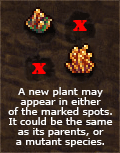
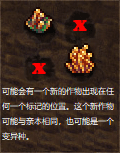
汉化农场

Changed region(s): [[0.0, 0.549, 0.95, 0.9935]]

diff --git a/minigameGarden.js b/minigameGarden.js
@@ -21,7 +21,7 @@ M.launch=function()
 		*/
 		M.plants={
 			'bakerWheat':{
-				name:'Baker\'s wheat',
+				name:'面包师的小麦',
 				icon:0,
 				cost:1,
 				costM:30,
@@ -29,15 +29,15 @@ M.launch=function()
 				ageTickR:2,
 				mature:35,
 				children:['bakerWheat','thumbcorn','cronerice','bakeberry','clover','goldenClover','chocoroot','tidygrass'],
-				effsStr:'<div class="green">&bull; +1% CpS</div>',
-				q:'A plentiful crop whose hardy grain is used to make flour for pastries.',
+				effsStr:'<div class="green">&bull; +1% 饼干产量</div>',
+				q:'一种多产的作物，其坚韧的谷物用来做糕点用的面粉。',
 				onHarvest:function(x,y,age)
 				{
 					if (age>=this.mature) M.dropUpgrade('Wheat slims',0.001);
 				},
 			},
 			'thumbcorn':{
-				name:'Thumbcorn',
+				name:'手指玉米',
 				icon:1,
 				cost:5,
 				costM:100,
@@ -45,11 +45,11 @@ M.launch=function()
 				ageTickR:2,
 				mature:20,
 				children:['bakerWheat','thumbcorn','cronerice','gildmillet','glovemorel'],
-				effsStr:'<div class="green">&bull; +2% cookies per click</div>',
-				q:'A strangely-shaped variant of corn. The amount of strands that can sprout from one seed is usually in the single digits.',
+				effsStr:'<div class="green">&bull; +2% 每次点击的饼干</div>',
+				q:'一种形状奇特的变种玉米。从一颗种子中长出的的果实数量通常只有个位数。',
 			},
 			'cronerice':{
-				name:'Cronerice',
+				name:'老妪稻谷',
 				icon:2,
 				cost:15,
 				costM:250,
@@ -57,11 +57,11 @@ M.launch=function()
 				ageTickR:0.7,
 				mature:55,
 				children:['thumbcorn','gildmillet','elderwort','wardlichen'],
-				effsStr:'<div class="green">&bull; +3% grandma CpS</div>',
-				q:'Not only does this wrinkly bulb look nothing like rice, it\'s not even related to it either; its closest extant relative is the weeping willow.',
+				effsStr:'<div class="green">&bull; +3% 老奶奶饼干产量</div>',
+				q:'这作物带皱纹的茎不仅不像稻谷，甚至和它一点关系都没有；它看起来就像垂柳。',
 			},
 			'gildmillet':{
-				name:'Gildmillet',
+				name:'黄金小米',
 				icon:3,
 				cost:15,
 				costM:1500,
@@ -69,8 +69,8 @@ M.launch=function()
 				ageTickR:1.5,
 				mature:40,
 				children:['clover','goldenClover','shimmerlily'],
-				effsStr:'<div class="green">&bull; +1% golden cookie gains</div><div class="green">&bull; +0.1% golden cookie effect duration</div>',
-				q:'An ancient staple crop, famed for its golden sheen. Was once used to bake birthday cakes for kings and queens of old.',
+				effsStr:'<div class="green">&bull; +1% 黄金饼干获得</div><div class="green">&bull; +0.1% 黄金饼干效果持续时间</div>',
+				q:'一种古代的主要作物，以其金色的光泽而闻名。曾被用来为古代的国王和王后烤生日蛋糕。',
 			},
 			'clover':{
 				name:'Ordinary clover',
@@ -873,34 +873,34 @@ M.launch=function()
 		
 		M.soils={
 			'dirt':{
-				name:'Dirt',
+				name:'泥土',
 				icon:0,
 				tick:5,
 				effMult:1,
 				weedMult:1,
 				req:0,
-				effsStr:'<div class="gray">&bull; tick every <b>5 minutes</b></div>',
-				q:'Simple, regular old dirt that you\'d find in nature.',
+				effsStr:'<div class="gray">&bull; 一个周期有 <b>5 分钟</b></div>',
+				q:'简单而平常的泥土，你可以在自然环境中随便挖到。',
 			},
 			'fertilizer':{
-				name:'Fertilizer',
+				name:'肥料',
 				icon:1,
 				tick:3,
 				effMult:0.75,
 				weedMult:1.2,
 				req:50,
-				effsStr:'<div class="gray">&bull; tick every <b>3 minutes</b></div><div class="red">&bull; passive plant effects <b>-25%</b></div><div class="red">&bull; weeds appear <b>20%</b> more</div>',
-				q:'Soil with a healthy helping of fresh manure. Plants grow faster but are less efficient.',
+				effsStr:'<div class="gray">&bull; 一个周期有 <b>3 分钟</b></div><div class="red">&bull; 作物效果 <b>-25%</b></div><div class="red">&bull; 杂草出现概率增加 <b>20%</b></div>',
+				q:'有新鲜肥料的有益健康的土壤。植物长得快但效果低。',
 			},
 			'clay':{
-				name:'Clay',
+				name:'黏土',
 				icon:2,
 				tick:15,
 				effMult:1.25,
 				weedMult:1,
 				req:100,
-				effsStr:'<div class="gray">&bull; tick every <b>15 minutes</b></div><div class="green">&bull; passive plant effects <b>+25%</b></div>',
-				q:'Rich soil with very good water retention. Plants grow slower but are more efficient.',
+				effsStr:'<div class="gray">&bull; 一个周期有 <b>15 分钟</b></div><div class="green">&bull; 作物效果 <b>+25%</b></div>',
+				q:'土壤肥沃，保水性能好。植物生长缓慢但效果更高。',
 			},
 			'pebbles':{
 				name:'Pebbles',
@@ -909,7 +909,7 @@ M.launch=function()
 				effMult:0.25,
 				weedMult:0.1,
 				req:200,
-				effsStr:'<div class="gray">&bull; tick every <b>5 minutes</b></div><div class="red">&bull; passive plant effects <b>-75%</b></div><div class="green">&bull; <b>35% chance</b> of collecting seeds automatically when plants expire</div><div class="green">&bull; weeds appear <b>10 times</b> less</div>',
+				effsStr:'<div class="gray">&bull; 一个周期有 <b>5 分钟</b></div><div class="red">&bull; 作物效果 <b>-75%</b></div><div class="green">&bull; 作物死亡时有<b>35% 概率</b>自动收获种子</div><div class="green">&bull; 杂草出现概率减少 <b>10 倍</b></div>',
 				q:'Dry soil made of small rocks tightly packed together. Not very conductive to plant health, but whatever falls off your crops will be easy to retrieve.<br>Useful if you\'re one of those farmers who just want to find new seeds without having to tend their garden too much.',
 			},
 			'woodchips':{
@@ -919,7 +919,7 @@ M.launch=function()
 				effMult:0.25,
 				weedMult:0.1,
 				req:300,
-				effsStr:'<div class="gray">&bull; tick every <b>5 minutes</b></div><div class="red">&bull; passive plant effects <b>-75%</b></div><div class="green">&bull; plants spread and mutate <b>3 times more</b></div><div class="green">&bull; weeds appear <b>10 times</b> less</div>',
+				effsStr:'<div class="gray">&bull; 一个周期有 <b>5 分钟</b></div><div class="red">&bull; 作物效果 <b>-75%</b></div><div class="green">&bull; 植物发育与变异变为 <b>3 倍以上</b></div><div class="green">&bull; 杂草出现概率减少 <b>10 倍</b></div>',
 				q:'Soil made of bits and pieces of bark and sawdust. Helpful for young sprouts to develop, not so much for mature plants.',
 			},
 		};
@@ -928,18 +928,18 @@ M.launch=function()
 		
 		M.tools={
 			'info':{
-				name:'Garden information',
+				name:'花园信息',
 				icon:3,
 				desc:'-',
 				descFunc:function()
 				{
 					var str='';
-					if (M.freeze) str='Your garden is frozen, providing no effects.';
+					if (M.freeze) str='你的花园冻住了，不会产生任何效果。';
 					else
 					{
 						var effs={
-							cps:{n:'CpS'},
-							click:{n:'cookies/click'},
+							cps:{n:'饼干产量'},
+							click:{n:'饼干/点击'},
 							cursorCps:{n:'cursor CpS'},
 							grandmaCps:{n:'grandma CpS'},
 							goldenCookieGain:{n:'golden cookie gains'},
@@ -971,18 +971,18 @@ M.launch=function()
 							}
 						}
 						if (effStr=='') effStr='<div style="font-size:10px;margin-left:64px;"><b>None.</b></div>';
-						str+='<div>Combined effects of all your plants :</div>'+effStr;
+						str+='<div>所有作物产生的总效果:</div>'+effStr;
 					}
 					str+='<div class="line"></div>';
-					str+='<img src="img/gardenTip.png" style="float:right;margin:0px 0px 8px 8px;"/><small style="line-height:100%;">&bull; You can cross-breed plants by planting them close to each other; new plants will grow in the empty tiles next to them.<br>&bull; Unlock new seeds by harvesting mature plants.<br>&bull; When you ascend, your garden plants are reset, but you keep all the seeds you\'ve unlocked.<br>&bull; Your garden has no effect and does not grow while the game is closed.</small>';
+					str+='<img src="img/gardenTip.png" style="float:right;margin:0px 0px 8px 8px;"/><small style="line-height:100%;">&bull; 你可以通过把种子种在一起来使它们杂交；新的作物会在相邻的空土地上生长。<br>&bull; 通过收获成熟作物来解锁新种子。<br>&bull; 你转生后，你的花园作物会重置，但是你将保留所有已解锁的种子。<br>&bull; 游戏关闭后，花园没有效果，作物也不会生长。</small>';
 					return str;
 				},
 				func:function(){},
 			},
 			'harvestAll':{
-				name:'Harvest all',
+				name:'收获所有',
 				icon:0,
-				descFunc:function(){return 'Instantly harvest all plants in your garden.<div class="line"></div>'+((Game.keys[16] && Game.keys[17])?'<b>You are holding shift+ctrl.</b> Only mature, mortal plants will be harvested.':'Shift+ctrl+click to harvest only mature, mortal plants.');},
+				descFunc:function(){return '马上收获花园里的所有作物。<div class="line"></div>'+((Game.keys[16] && Game.keys[17])?'<b>你正在按着 shift+ctrl.</b> 只会收获成熟的、死亡的作物。':'Shift+ctrl+单击来只收获成熟的、死亡的作物。');},
 				func:function(){
 					PlaySound('snd/toneTick.mp3');
 					/*if (M.freeze){return false;}*/
@@ -991,11 +991,11 @@ M.launch=function()
 				},
 			},
 			'freeze':{
-				name:'Freeze',
+				name:'冰冻',
 				icon:1,
 				descFunc:function()
 				{
-					return 'Cryogenically preserve your garden.<br>Plants no longer grow, spread or die; they provide no benefits.<br>Soil cannot be changed.<div class="line"></div>Using this will effectively pause your garden.<div class="line"></div>';//<span class="red">'+((M.nextFreeze>Date.now())?'You will be able to freeze your garden again in '+Game.sayTime((M.nextFreeze-Date.now())/1000*30+30,-1)+'.':'After unfreezing your garden, you must wait 10 minutes to freeze it again.')+'</span>
+					return '低温保护你的花园。<br>作物将不再生长，发育及死亡；它们也将不会提供加成。<br>土壤无法改变。<div class="line"></div>使用这功能将有效地暂停你的花园。<div class="line"></div>';//<span class="red">'+((M.nextFreeze>Date.now())?'You will be able to freeze your garden again in '+Game.sayTime((M.nextFreeze-Date.now())/1000*30+30,-1)+'.':'After unfreezing your garden, you must wait 10 minutes to freeze it again.')+'</span>
 				},
 				func:function(){
 					//if (!M.freeze && M.nextFreeze>Date.now()) return false;
@@ -1116,14 +1116,14 @@ M.launch=function()
 			}
 			
 			return '<div class="description">'+
-						(!me.immortal?('<div style="margin:6px 0px;font-size:11px;"><b>Average lifespan :</b> '+Game.sayTime(((100/(me.ageTick+me.ageTickR/2))*M.stepT)*30,-1)+' <small>('+Beautify(Math.ceil((100/((me.ageTick+me.ageTickR/2)))*(1)))+' ticks)</small></div>'):'')+
-						'<div style="margin:6px 0px;font-size:11px;"><b>Average maturation :</b> '+Game.sayTime(((100/((me.ageTick+me.ageTickR/2)))*(me.mature/100)*M.stepT)*30,-1)+' <small>('+Beautify(Math.ceil((100/((me.ageTick+me.ageTickR/2)))*(me.mature/100)))+' ticks)</small></div>'+
+						(!me.immortal?('<div style="margin:6px 0px;font-size:11px;"><b>平均寿命 :</b> '+Game.sayTime(((100/(me.ageTick+me.ageTickR/2))*M.stepT)*30,-1)+' <small>('+Beautify(Math.ceil((100/((me.ageTick+me.ageTickR/2)))*(1)))+' 周期)</small></div>'):'')+
+						'<div style="margin:6px 0px;font-size:11px;"><b>平均成熟时间 :</b> '+Game.sayTime(((100/((me.ageTick+me.ageTickR/2)))*(me.mature/100)*M.stepT)*30,-1)+' <small>('+Beautify(Math.ceil((100/((me.ageTick+me.ageTickR/2)))*(me.mature/100)))+' 周期)</small></div>'+
 						(me.weed?'<div style="margin:6px 0px;font-size:11px;"><b>Is a weed</b></div>':'')+
 						(me.fungus?'<div style="margin:6px 0px;font-size:11px;"><b>Is a fungus</b></div>':'')+
 						(me.detailsStr?('<div style="margin:6px 0px;font-size:11px;"><b>Details :</b> '+me.detailsStr+'</div>'):'')+
-						(children!=''?('<div style="margin:6px 0px;font-size:11px;"><b>Possible mutations :</b> '+children+'</div>'):'')+
+						(children!=''?('<div style="margin:6px 0px;font-size:11px;"><b>可能的变异 :</b> '+children+'</div>'):'')+
 						'<div class="line"></div>'+
-						'<div style="margin:6px 0px;"><b>Effects :</b></div>'+
+						'<div style="margin:6px 0px;"><b>效果 :</b></div>'+
 						'<div style="font-size:11px;font-weight:bold;">'+me.effsStr+'</div>'+
 						(me.q?('<q>'+me.q+'</q>'):'')+
 					'</div>';
@@ -1149,12 +1149,12 @@ M.launch=function()
 				var me=M.soilsById[id];
 				var str='<div style="padding:8px 4px;min-width:350px;">'+
 					(M.parent.amount<me.req?(
-						'<div style="text-align:center;">Soil unlocked at '+me.req+' farms.</div>'
+						'<div style="text-align:center;">这种土壤需要'+me.req+'个农场解锁。</div>'
 					):('<div class="icon" style="background:url(img/gardenPlants.png?v='+Game.version+');float:left;margin-left:-8px;margin-top:-8px;background-position:'+(-me.icon*48)+'px '+(-34*48)+'px;"></div>'+
-					'<div><div class="name">'+me.name+'</div><div><small>'+((M.soil==me.id)?'Your field is currently using this soil.':(M.nextSoil>Date.now())?'You will be able to change your soil again in '+Game.sayTime((M.nextSoil-Date.now())/1000*30+30,-1)+'.':'Click to use this type of soil for your whole field.')+'</small></div></div>'+
+					'<div><div class="name">'+me.name+'</div><div><small>'+((M.soil==me.id)?'你的种植区正在使用这种土壤。':(M.nextSoil>Date.now())?'你将在'+Game.sayTime((M.nextSoil-Date.now())/1000*30+30,-1)+'后才能再次改变土壤.':'单击此处来为你的整片种植区使用这种土壤。')+'</small></div></div>'+
 					'<div class="line"></div>'+
 					'<div class="description">'+
-						'<div style="margin:6px 0px;"><b>Effects :</b></div>'+
+						'<div style="margin:6px 0px;"><b>效果 :</b></div>'+
 						'<div style="font-size:11px;font-weight:bold;">'+me.effsStr+'</div>'+
 						(me.q?('<q>'+me.q+'</q>'):'')+
 					'</div>'))+
@@ -1170,8 +1170,8 @@ M.launch=function()
 					'<div class="icon" style="background:url(img/gardenPlants.png?v='+Game.version+');float:left;margin-left:-24px;margin-top:-4px;background-position:'+(-0*48)+'px '+(-me.icon*48)+'px;"></div>'+
 					'<div class="icon" style="background:url(img/gardenPlants.png?v='+Game.version+');float:left;margin-left:-24px;margin-top:-28px;background-position:'+(-4*48)+'px '+(-me.icon*48)+'px;"></div>'+
 					'<div style="background:url(img/turnInto.png);width:20px;height:22px;position:absolute;left:28px;top:24px;z-index:1000;"></div>'+
-					(me.plantable?('<div style="float:right;text-align:right;width:100px;"><small>Planting cost :</small><br><span class="price'+(M.canPlant(me)?'':' disabled')+'">'+Beautify(Math.round(shortenNumber(M.getCost(me))))+'</span><br><small>'+Game.sayTime(me.cost*60*30,-1)+' of CpS,<br>minimum '+Beautify(me.costM)+' cookies</small></div>'):'')+
-					'<div style="width:300px;"><div class="name">'+me.name+' seed</div><div><small>'+(me.plantable?'Click to select this seed for planting.':'<span class="red">This seed cannot be planted.</span>')+'<br>Shift+ctrl+click to harvest all mature plants of this type.</small></div></div>'+
+					(me.plantable?('<div style="float:right;text-align:right;width:100px;"><small>种植成本 :</small><br><span class="price'+(M.canPlant(me)?'':' disabled')+'">'+Beautify(Math.round(shortenNumber(M.getCost(me))))+'</span><br><small>'+Game.sayTime(me.cost*60*30,-1)+'的饼干生产量,<br>最少 '+Beautify(me.costM)+' 饼干</small></div>'):'')+
+					'<div style="width:300px;"><div class="name">'+me.name+'种子</div><div><small>'+(me.plantable?'单击此处来选择这颗种子去种植。':'<span class="red">无法种植这棵种子。</span>')+'<br>Shift+ctrl+单击来收获所有这类型的成熟作物。</small></div></div>'+
 					'<div class="line"></div>'+
 					M.getPlantDesc(me)+
 				'</div>';
@@ -1202,9 +1202,9 @@ M.launch=function()
 				{
 					var me=(M.seedSelected>=0)?M.plantsById[M.seedSelected]:0;
 					var str='<div style="padding:8px 4px;min-width:350px;text-align:center;">'+
-						'<div class="name">Empty tile</div>'+'<div class="line"></div><div class="description">'+
-							'This tile of soil is empty.<br>Pick a seed and plant something!'+
-							(me?'<div class="line"></div>Click to plant <b>'+me.name+'</b> for <span class="price'+(M.canPlant(me)?'':' disabled')+'">'+Beautify(Math.round(M.getCost(me)))+'</span>.<br><small>(Shift-click to plant multiple.)</small>':'')+
+						'<div class="name">一片空土地</div>'+'<div class="line"></div><div class="description">'+
+							'这片土地是空的。<br>拿一颗种子，在这里种点什么！'+
+							(me?'<div class="line"></div>点击这里种植<b>'+me.name+'</b> 并花费 <span class="price'+(M.canPlant(me)?'':' disabled')+'">'+Beautify(Math.round(M.getCost(me)))+'</span>.<br><small>(Shift-click to plant multiple.)</small>':'')+
 							(M.plotBoost[y][x]!=[1,1,1]?('<small>'+
 								(M.plotBoost[y][x][0]!=1?'<br>Aging multiplier : '+Beautify(M.plotBoost[y][x][0]*100)+'%':'')+
 								(M.plotBoost[y][x][1]!=1?'<br>Effect multiplier : '+Beautify(M.plotBoost[y][x][1]*100)+'%':'')+
@@ -1226,7 +1226,7 @@ M.launch=function()
 					var icon=[stage,me.icon];
 					var str='<div style="padding:8px 4px;min-width:350px;">'+
 						'<div class="icon" style="background:url(img/gardenPlants.png?v='+Game.version+');float:left;margin-left:-8px;margin-top:-8px;background-position:'+(-icon[0]*48)+'px '+(-icon[1]*48)+'px;"></div>'+
-						'<div class="name">'+me.name+'</div><div><small>This plant is growing here.</small></div>'+
+						'<div class="name">'+me.name+'</div><div><small>这个作物在这里生长</small></div>'+
 						'<div class="line"></div>'+
 						'<div style="text-align:center;">'+
 							'<div style="display:inline-block;position:relative;box-shadow:0px 0px 0px 1px #000,0px 0px 0px 1px rgba(255,255,255,0.5) inset,0px -2px 2px 0px rgba(255,255,255,0.5) inset;width:256px;height:6px;background:linear-gradient(to right,#fff 0%,#0f9 '+me.mature+'%,#3c0 '+(me.mature+0.1)+'%,#960 100%)">'+
@@ -1236,16 +1236,16 @@ M.launch=function()
 								'<div style="background:url(img/gardenPlants.png?v='+Game.version+');background-position:'+(-3*48)+'px '+(-icon[1]*48)+'px;position:absolute;left:'+((((me.mature*0.666)/100)*256)-24)+'px;top:-32px;transform:scale(0.5,0.5);width:48px;height:48px;"></div>'+
 								'<div style="background:url(img/gardenPlants.png?v='+Game.version+');background-position:'+(-4*48)+'px '+(-icon[1]*48)+'px;position:absolute;left:'+((((me.mature)/100)*256)-24)+'px;top:-32px;transform:scale(0.5,0.5);width:48px;height:48px;"></div>'+
 							'</div><br>'+
-							'<b>Stage :</b> '+['bud','sprout','bloom','mature'][stage-1]+'<br>'+
-							'<small>'+(stage==1?'Plant effects : 10%':stage==2?'Plant effects : 25%':stage==3?'Plant effects : 50%':'Plant effects : 100%; may reproduce, will drop seed when harvested')+'</small>'+
+							'<b>阶段 :</b> '+['发芽','长芽','开花','成熟'][stage-1]+'<br>'+
+							'<small>'+(stage==1?'作物效果 : 10%':stage==2?'作物效果 : 25%':stage==3?'作物效果 : 50%':'作物效果 : 100%; 可能会繁殖，在收获时留下种子')+'</small>'+
 							'<br><small>'+(
 								stage<4?(
-									'Mature in about '+Game.sayTime(((100/(M.plotBoost[y][x][0]*(me.ageTick+me.ageTickR/2)))*((me.mature-tile[1])/100)*M.stepT)*30,-1)+' ('+Beautify(Math.ceil((100/(M.plotBoost[y][x][0]*(me.ageTick+me.ageTickR/2)))*((me.mature-tile[1])/100)))+' tick'+(Math.ceil((100/(M.plotBoost[y][x][0]*(me.ageTick+me.ageTickR/2)))*((me.mature-tile[1])/100))==1?'':'s')+')'
+									'大约在'+Game.sayTime(((100/(M.plotBoost[y][x][0]*(me.ageTick+me.ageTickR/2)))*((me.mature-tile[1])/100)*M.stepT)*30,-1)+' ('+Beautify(Math.ceil((100/(M.plotBoost[y][x][0]*(me.ageTick+me.ageTickR/2)))*((me.mature-tile[1])/100)))+' 周期'+(Math.ceil((100/(M.plotBoost[y][x][0]*(me.ageTick+me.ageTickR/2)))*((me.mature-tile[1])/100))==1?'':'')+')后成熟'
 								):(
 									!me.immortal?(
-										'Decays in about '+Game.sayTime(((100/(M.plotBoost[y][x][0]*(me.ageTick+me.ageTickR/2)))*((100-tile[1])/100)*M.stepT)*30,-1)+' ('+Beautify(Math.ceil((100/(M.plotBoost[y][x][0]*(me.ageTick+me.ageTickR/2)))*((100-tile[1])/100)))+' tick'+(Math.ceil((100/(M.plotBoost[y][x][0]*(me.ageTick+me.ageTickR/2)))*((100-tile[1])/100))==1?'':'s')+')'
+										'大约在'+Game.sayTime(((100/(M.plotBoost[y][x][0]*(me.ageTick+me.ageTickR/2)))*((100-tile[1])/100)*M.stepT)*30,-1)+' ('+Beautify(Math.ceil((100/(M.plotBoost[y][x][0]*(me.ageTick+me.ageTickR/2)))*((100-tile[1])/100)))+' 周期'+(Math.ceil((100/(M.plotBoost[y][x][0]*(me.ageTick+me.ageTickR/2)))*((100-tile[1])/100))==1?'':'')+')后腐烂'
 									):
-										'Does not decay'
+										'不会腐烂'
 								)
 							)+'</small>'+
 							//'<small><br>'+M.plotBoost[y][x]+'</small>'+
@@ -1258,7 +1258,7 @@ M.launch=function()
 						'</div>'+
 						'<div class="line"></div>'+
 						//'<div style="text-align:center;">Click to harvest'+(M.seedSelected>=0?', planting <b>'+M.plantsById[M.seedSelected].name+'</b><br>for <span class="price'+(M.canPlant(me)?'':' disabled')+'">'+Beautify(Math.round(M.getCost(M.plantsById[M.seedSelected])))+'</span> in its place':'')+'.</div>'+
-						'<div style="text-align:center;">Click to '+(stage==4?'harvest':'unearth')+'.</div>'+
+						'<div style="text-align:center;">单击来'+(stage==4?'收获':'挖出')+'.</div>'+
 						'<div class="line"></div>'+
 						M.getPlantDesc(me)+
 					'</div>';
@@ -1633,7 +1633,7 @@ M.launch=function()
 		str+='<div id="gardenDrag"><div id="gardenCursor" class="shadowFilter"></div></div>';
 			
 			str+='<div id="gardenPanel" class="framed">';
-				str+='<div class="title gardenPanelLabel">Tools</div><div class="line"></div>';
+				str+='<div class="title gardenPanelLabel">工具</div><div class="line"></div>';
 				str+='<div id="gardenTools"></div>';
 				str+='<div id="gardenSeedsUnlocked" class="title gardenPanelLabel">Seeds</div><div class="line"></div>';
 				str+='<div id="gardenSeeds"></div>';
@@ -1997,12 +1997,12 @@ M.launch=function()
 		if (Game.drawT%10==0)
 		{
 			M.lumpRefill.style.display='block';
-			if (M.freeze) l('gardenNextTick').innerHTML='Garden is frozen. Unfreeze to resume.';
-			else l('gardenNextTick').innerHTML='Next tick in '+Game.sayTime((M.nextStep-Date.now())/1000*30+30,-1)+'';
-			l('gardenStats').innerHTML='Mature plants harvested : '+Beautify(M.harvests)+' (total : '+Beautify(M.harvestsTotal)+')';
-			if (M.parent.level<M.plotLimits.length) l('gardenPlotSize').innerHTML='<small>Plot size : '+Math.max(1,Math.min(M.plotLimits.length,M.parent.level))+'/'+M.plotLimits.length+'<br>(Upgrades with farm level)</small>';
+			if (M.freeze) l('gardenNextTick').innerHTML='花园冻住了。解冻来恢复。';
+			else l('gardenNextTick').innerHTML='下一周期在'+Game.sayTime((M.nextStep-Date.now())/1000*30+30,-1)+'后';
+			l('gardenStats').innerHTML='已收获成熟作物: '+Beautify(M.harvests)+' (总共 : '+Beautify(M.harvestsTotal)+')';
+			if (M.parent.level<M.plotLimits.length) l('gardenPlotSize').innerHTML='<small>种植区尺寸 : '+Math.max(1,Math.min(M.plotLimits.length,M.parent.level))+'/'+M.plotLimits.length+'<br>(随农场等级升级<糖块升级>)</small>';
 			else l('gardenPlotSize').innerHTML='';
-			l('gardenSeedsUnlocked').innerHTML='Seeds<small> ('+M.plantsUnlockedN+'/'+M.plantsN+')</small>';
+			l('gardenSeedsUnlocked').innerHTML='种子<small> ('+M.plantsUnlockedN+'/'+M.plantsN+')</small>';
 			for (var i in M.soils)
 			{
 				var me=M.soils[i];

diff --git a/main-v=2.0114.js b/main-v=2.0114.js
@@ -6387,8 +6387,8 @@ Game.Launch=function()
 				if (Game.isMinigameReady(me) && Game.ascensionMode!=1)
 				{
 					l('productMinigameButton'+me.id).style.display='block';
-					if (!me.onMinigame) l('productMinigameButton'+me.id).innerHTML='View '+me.minigameName;
-					else l('productMinigameButton'+me.id).innerHTML='Close '+me.minigameName;
+					if (!me.onMinigame) l('productMinigameButton'+me.id).innerHTML='打开'+me.minigameName;
+					else l('productMinigameButton'+me.id).innerHTML='关闭'+me.minigameName;
 				}
 				else l('productMinigameButton'+me.id).style.display='none';
 			}
@@ -6847,7 +6847,7 @@ Game.Launch=function()
 			if (this.amount>=Game.SpecialGrandmaUnlock && Game.Objects['Grandma'].amount>0) Game.Unlock('农民老奶奶');
 		});
 		Game.last.minigameUrl='minigameGarden.js';
-		Game.last.minigameName='Garden';
+		Game.last.minigameName='花园';
 		
 		new Game.Object('Mine','矿山|矿山|开采|[X] 米深|[X] 米深','矿山生产饼干面团和巧克力片。',4,3,{base:'mine',xV:16,yV:16,w:64,rows:2,x:0,y:24},10000,function(me){
 			var mult=1;
@@ -6893,7 +6893,7 @@ Game.Launch=function()
 			if (this.amount>=Game.SpecialGrandmaUnlock && Game.Objects['Grandma'].amount>0) Game.Unlock('祭司老奶奶');
 		});
 		Game.last.minigameUrl='minigamePantheon.js';
-		Game.last.minigameName='Pantheon';
+		Game.last.minigameName='万神殿';
 		
 		new Game.Object('Wizard tower','精灵塔|精灵塔|召唤|咒语拥有 [X] 更多的音节|咒语拥有 [X] 更多的音节','用魔法咒语召唤饼干。',8,17,{base:'wizardtower',xV:16,yV:16,w:48,rows:2,x:0,y:20},0,function(me){
 			var mult=1;
@@ -8893,7 +8893,7 @@ Game.Launch=function()
 		{
 			var threshold=Math.pow(10,Math.floor(Game.BankAchievements.length*1.5+2));
 			if (Game.BankAchievements.length==0) threshold=1;
-			var achiev=new Game.Achievement(name,'烘烤 <b>'+Beautify(threshold)+'</b> 饼干'+(threshold==1?'':'s')+' 在一次转生中。',[Game.thresholdIcons[Game.BankAchievements.length],(Game.BankAchievements.length>23?2:5)]);
+			var achiev=new Game.Achievement(name,'烘烤 <b>'+Beautify(threshold)+'</b> 饼干'+(threshold==1?'':'')+' 在一次转生中。',[Game.thresholdIcons[Game.BankAchievements.length],(Game.BankAchievements.length>23?2:5)]);
 			achiev.threshold=threshold;
 			achiev.order=100+Game.BankAchievements.length*0.01;
 			Game.BankAchievements.push(achiev);
@@ -8904,7 +8904,7 @@ Game.Launch=function()
 		{
 			var threshold=Math.pow(10,Math.floor(Game.CpsAchievements.length*1.2));
 			//if (Game.CpsAchievements.length==0) threshold=1;
-			var achiev=new Game.Achievement(name,'Bake <b>'+Beautify(threshold)+'</b> cookie'+(threshold==1?'':'s')+' per second.',[Game.thresholdIcons[Game.CpsAchievements.length],(Game.CpsAchievements.length>23?2:5)]);
+			var achiev=new Game.Achievement(name,'每秒烘烤 <b>'+Beautify(threshold)+'</b> 饼干'+(threshold==1?'':'')+'。',[Game.thresholdIcons[Game.CpsAchievements.length],(Game.CpsAchievements.length>23?2:5)]);
 			achiev.threshold=threshold;
 			achiev.order=200+Game.CpsAchievements.length*0.01;
 			Game.CpsAchievements.push(achiev);
@@ -12248,7 +12248,7 @@ Game.Launch=function()
 				}
 				str=[str.slice(0, spacePos),add,str.slice(spacePos)].join('');
 			}
-			if (str.length>11 && !Game.mobile) unit='<br>cookies';
+			if (str.length>11 && !Game.mobile) unit='<br>饼干';
 			str+=unit;
 			if (Game.prefs.monospace) str='<span class="monospace">'+str+'</span>';
 			str=str+'<div style="font-size:50%;"'+(Game.cpsSucked>0?' class="warning"':'')+'>每秒 : '+Beautify(Game.cookiesPs*(1-Game.cpsSucked),1)+'</div>';//display cookie amount
